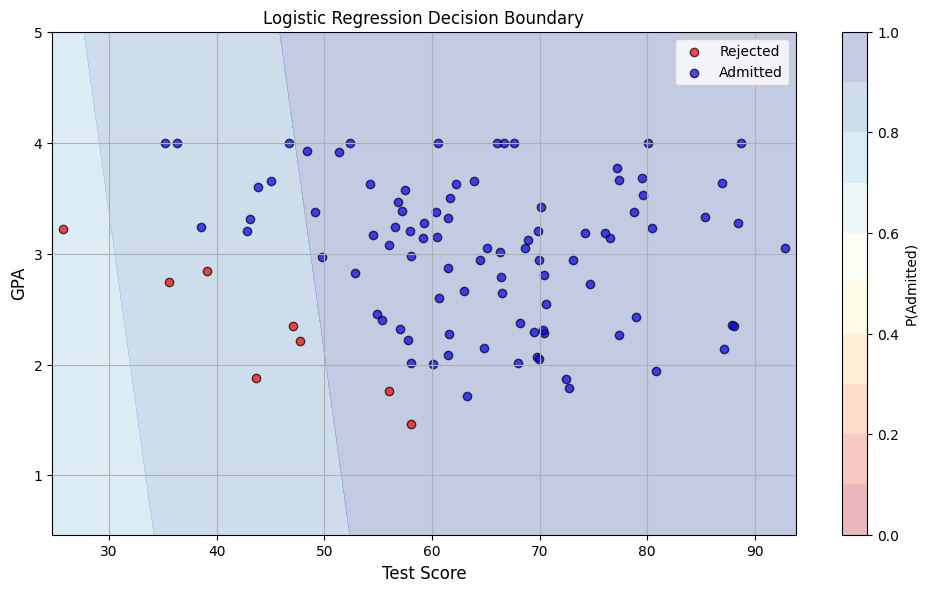
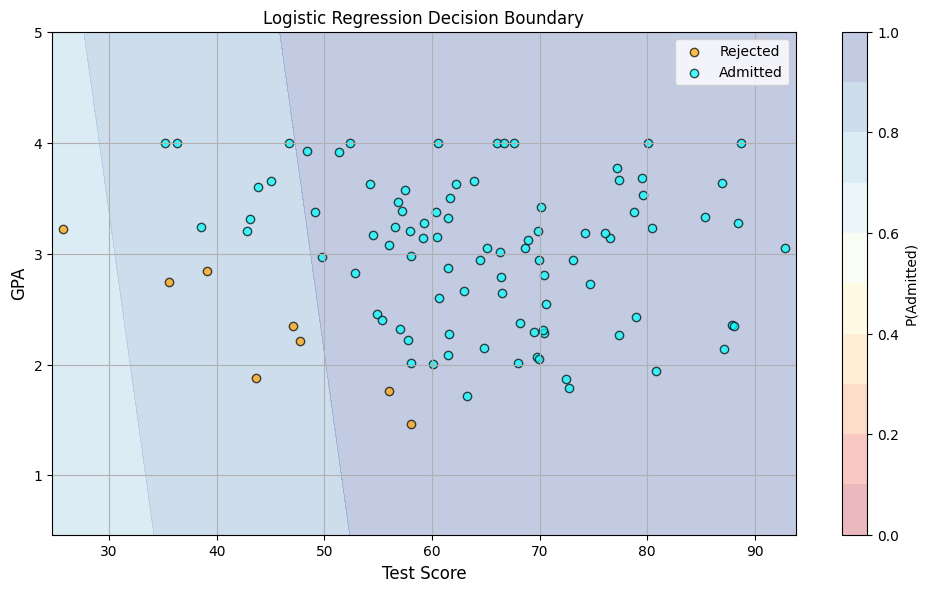
Update logistic regression plot colors for better clarity

diff --git a/src/calculus_ml/examples/logistic_example.py b/src/calculus_ml/examples/logistic_example.py
@@ -52,11 +52,11 @@ def plot_logistic_results(model, X1, X2, y, history, save_dir='images'):
     plt.colorbar(contour, label='P(Admitted)')
     
     # Vẽ decision boundary với độ dày tăng
-    plt.contour(xx1, xx2, Z, levels=[0.5], colors='green', linewidths=2, linestyles='--', label='Decision Boundary')
+    plt.contour(xx1, xx2, Z, levels=[0.5], colors='purple', linewidths=2, linestyles='--', label='Decision Boundary')
     
     # Vẽ scatter plot các điểm dữ liệu
-    plt.scatter(X1[y==0], X2[y==0], color='red', alpha=0.7, label='Rejected', edgecolors='k')
-    plt.scatter(X1[y==1], X2[y==1], color='blue', alpha=0.7, label='Admitted', edgecolors='k')
+    plt.scatter(X1[y==0], X2[y==0], color='orange', alpha=0.7, label='Rejected', edgecolors='k')
+    plt.scatter(X1[y==1], X2[y==1], color='cyan', alpha=0.7, label='Admitted', edgecolors='k')
     
     plt.legend()
     save_plot(os.path.join(save_dir, 'logistic_decision_boundary.png'))
